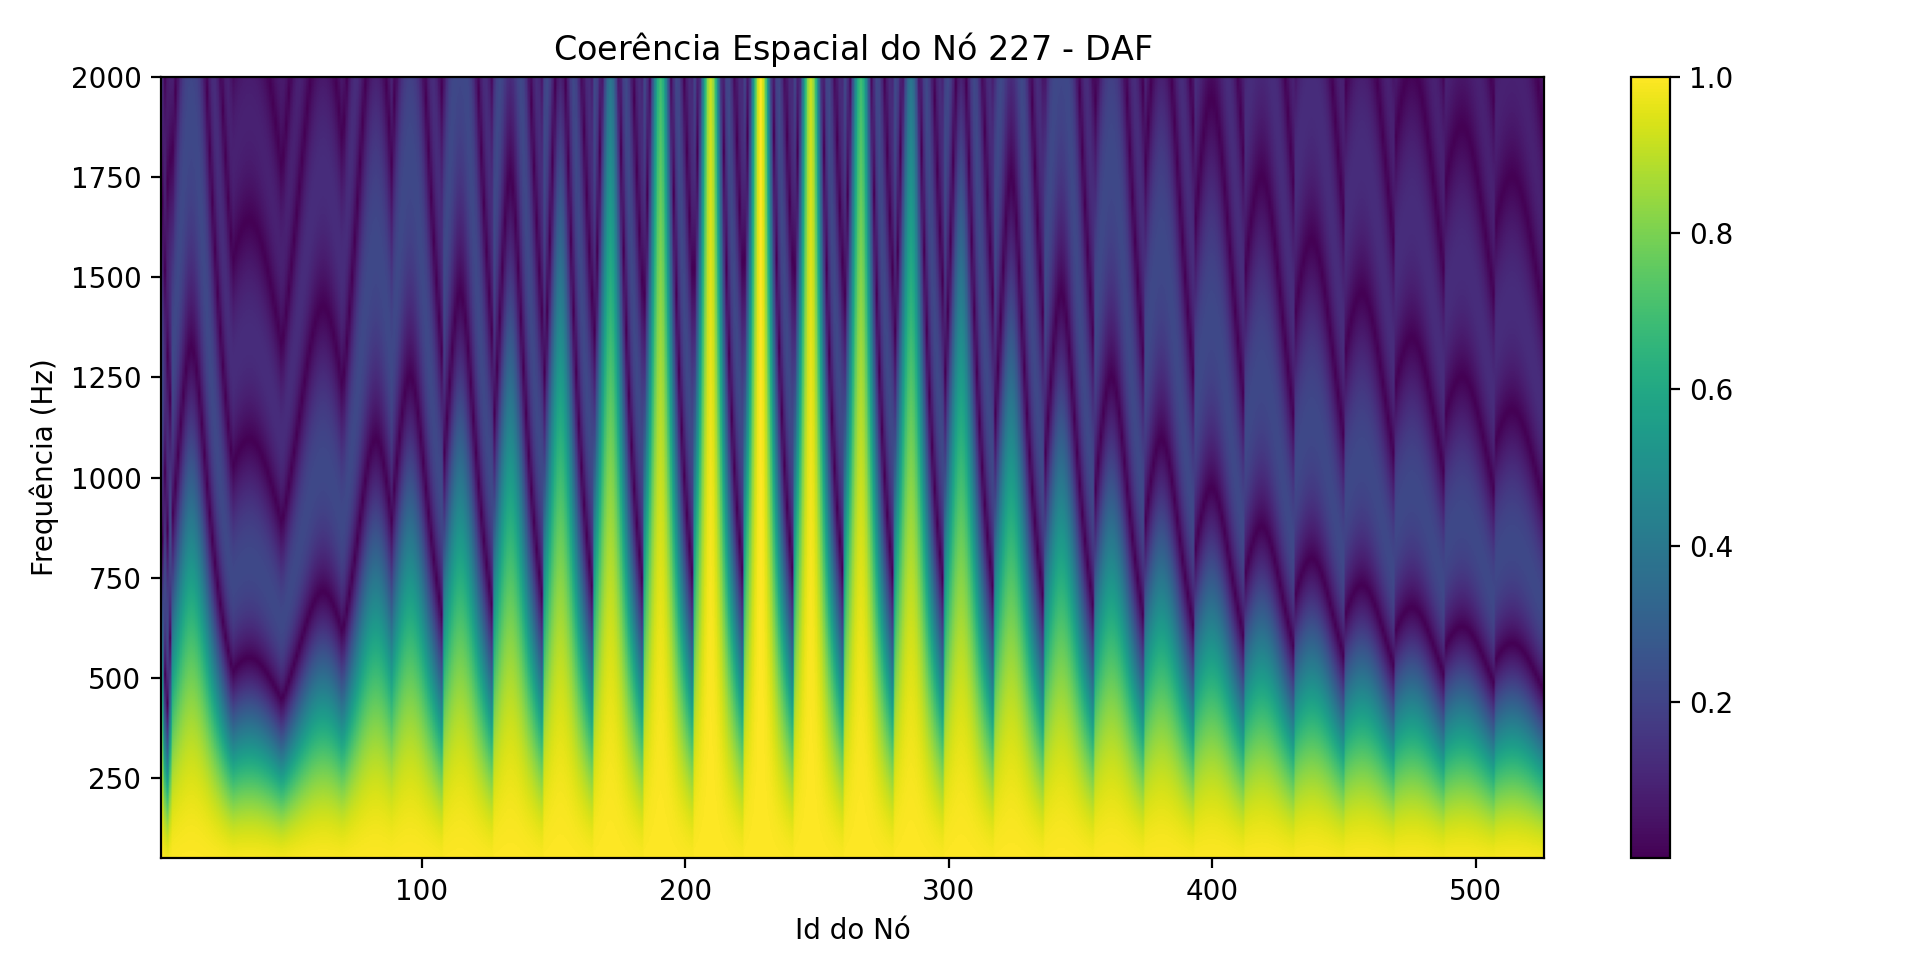
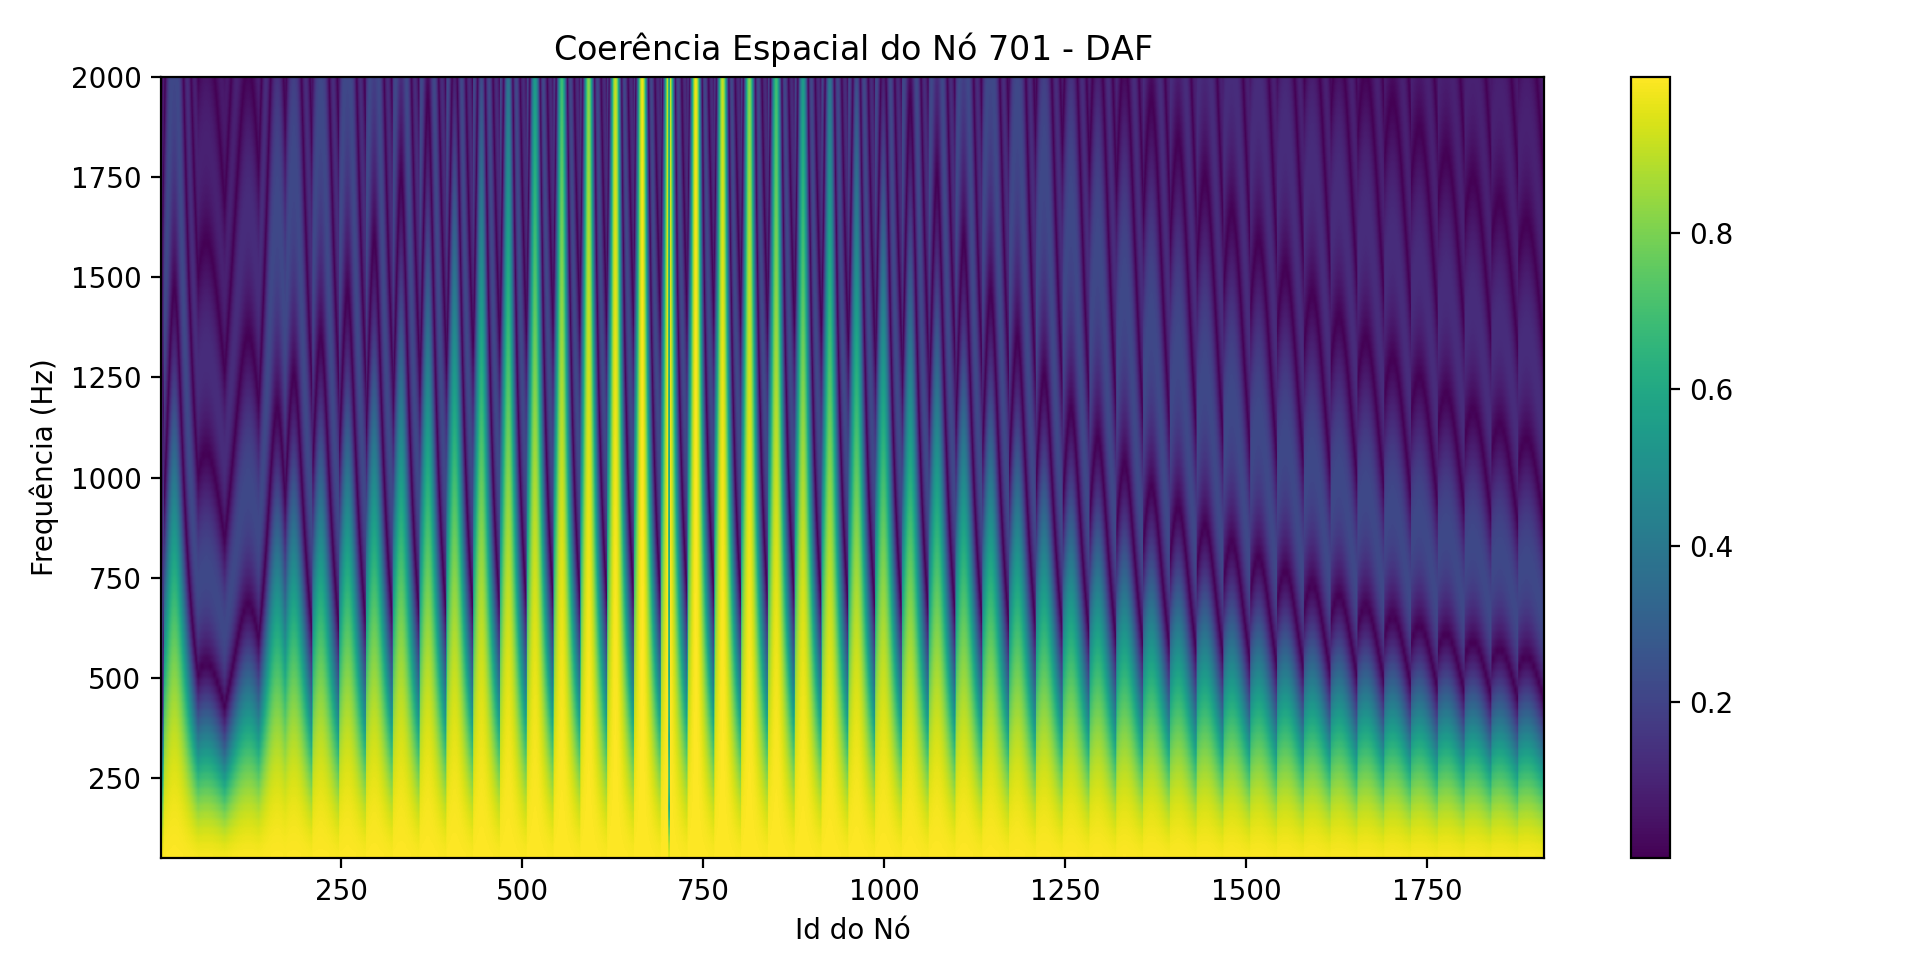
aeee porra

diff --git a/trabs/MAIN.py b/trabs/MAIN.py
@@ -1,6 +1,6 @@
 # %%
 import numpy as np
-
+from tqdm import tqdm
 import matplotlib.pyplot as plt
 import SHELL4 as fems4
 import SOLVE as solv
@@ -30,9 +30,9 @@ if __name__ == "__main__":
     
     
     # Propriedades
-    E = 210e9
-    rho = 8000
-    v = 0.3
+    E = 200e9
+    rho = 7850
+    v = 0.33
     alpha_x = 0.11
     alpha_y = 0.7
     rho_air =  1.1845
@@ -49,7 +49,7 @@ if __name__ == "__main__":
     lx = 0.47 # Comprimento
     ly = 0.37 # Altura
 
-    tamanho_elemento = 0.005
+    tamanho_elemento = 0.01
     coord, connect, nodes_faceX1, nodes_faceX2, nodes_faceY1, nodes_faceY2, nodes_middle = msh.malha2D_QUAD4(lx,ly,tamanho_elemento)
     nnode = len(coord)
     nel = len(connect)
@@ -95,12 +95,12 @@ if __name__ == "__main__":
     print('Frequências Naturais:')
     print(natural_frequencies)
     # %%
-    freq = np.linspace(50,2000,300)
+    freq = np.linspace(50,2000,100)
     psd = pd.DataFrame(index=freq, dtype=float)
-    csd = pd.DataFrame(index=freq, dtype=complex)
+    csd = pd.DataFrame(index=freq, dtype=np.complex64)
     Vr = modal_shape[z_dofs,:]  # Modos normais
     wn = 2 * np.pi * natural_frequencies  # Frequências naturais (rad/s)
-    #glf = check_node[1]  # Grau de liberdade da força
+    #glf = check_node[0]  # Grau de liberdade da força
     w_array = 2 * np.pi * freq  # Frequências angulares
     k0_array = w_array/c0
 
@@ -110,27 +110,27 @@ if __name__ == "__main__":
     ksin = norm(np.stack((ksix,ksiy)),2,0)
     np.fill_diagonal(ksin,1)
     # %%
-    # Function to compute phi_pb for a specific frequency index kk
+    
     def compute_Gamma_DAF(kk,  k0,  ksin):
         Gamma = np.sin(k0 * ksin) / (k0 * ksin)
         return Gamma, kk
 
     # Preallocate arrays
-    Gamma_DAF = np.zeros((nnode, nnode, len(w_array)), dtype=complex)
+    Gamma_DAF = np.zeros((nnode, nnode, len(w_array)), dtype=np.complex64)
 
     # Parallel computation of phi_pb using joblib
     results_DAF = Parallel(n_jobs=-1)(delayed(compute_Gamma_DAF)(
         kk, k0, ksin) for kk, k0 in enumerate(k0_array))
 
     # Combine the results back into phi_pb
-    for Gamma, kk in results_DAF:
+    for Gamma, kk in tqdm(results_DAF):
         Gamma_DAF[:, :, kk] = Gamma
 
     #%%
-    for n_eta, eta in enumerate([0.5, 0.05, 0.005]):
+    for n_eta, eta in enumerate(tqdm([0.5, 0.05, 0.005])):
 
         # Inicializando as FRFs    
-        Hv = np.zeros((len(z_dofs), len(z_dofs), len(freq)), dtype=complex)
+        Hv = np.zeros((len(z_dofs), len(z_dofs), len(freq)), dtype=np.complex64)
         
         # Pré-calculando termos repetidos para otimização
         eta_wn2 = eta * wn**2  # Termo de amortecimento modal
@@ -139,7 +139,7 @@ if __name__ == "__main__":
         # Function to compute the FRF for a specific (glf, glr) pair
         def compute_FRF(glr, glf, w_array, wn2, eta_wn2, Vr, modes):
             # Initialize the result for this pair
-            Hv_glr_glf = np.zeros_like(w_array, dtype=complex)
+            Hv_glr_glf = np.zeros_like(w_array, dtype=np.complex64)
             
             # Calculate the denominator and FRF for each mode
             for k in range(modes):
@@ -151,17 +151,17 @@ if __name__ == "__main__":
             
             return Hv_glr_glf, glr, glf
         # Preallocate the array to store the final Hv
-        Hv = np.zeros((nnode, nnode, len(w_array)), dtype=complex)
+        Hv = np.zeros((nnode, nnode, len(w_array)), dtype=np.complex64)
 
         # Parallel computation of FRFs using joblib
         results = Parallel(n_jobs=-2)(delayed(compute_FRF)(
-            glr, glf, w_array, wn2, eta_wn2, Vr, modes) for glr in np.arange(nnode) for glf in np.arange(nnode))
+            glr, glf, w_array, wn2, eta_wn2, Vr, modes) for glr in np.arange(nnode) for glf in check_node)
 
         # Aggregate the results back into Hv
-        for Hv_glr_glf, glr, glf in results:
+        for Hv_glr_glf, glr, glf in tqdm(results):
             Hv[glr, glf, :] = Hv_glr_glf
         
-        for n_U0, U0 in enumerate([44.7, 89.4, 178.8]):
+        for n_U0, U0 in enumerate(tqdm([44.7, 89.4, 178.8])):
             Re_d = 8 * U0*d_/v_air
             tau_w = (0.0225 * rho_air * U0**2)/(Re_d**0.25)
             # Pré-computando constantes fora dos loops
@@ -173,7 +173,7 @@ if __name__ == "__main__":
             ksix = coord[:, None, 0] - coord[None, :, 0]  # Diferenças em x
             ksiy = coord[:, None, 1] - coord[None, :, 1]  # Diferenças em y
             Aij = (tamanho_elemento)**2  # Precomputando Aij fora do loop
-            Aij = 0.47*0.37  # Precomputando Aij fora do loop
+            Aij = 0.47*0.37/nnode  # Precomputando Aij fora do loop
             # Função paralelizada que será aplicada em cada frequência
             def compute_Gamma_TBL(kk, w, Uc, ksix, ksiy, alpha_x, alpha_y, Aij):
                 ksix_Uc = np.abs(w * ksix / Uc)
@@ -181,7 +181,7 @@ if __name__ == "__main__":
                 # Precomputando o termo Gamma
                 exp_x = np.exp(-alpha_x * ksix_Uc)  # Parte exponencial para ksix
                 exp_y = np.exp(-alpha_y * ksiy_Uc)  # Parte exponencial para ksiy
-                complex_exp = np.exp(1j * w * ksix / Uc)  # Parte exponencial complexa
+                complex_exp = np.exp(1j * w * ksix / Uc)  # Parte exponencial np.complex64a
 
                 Gamma = (1 + alpha_x * ksix_Uc) * exp_x * complex_exp * exp_y
                 return Gamma, kk
@@ -192,22 +192,22 @@ if __name__ == "__main__":
                 kk, w, Uc, ksix, ksiy, alpha_x, alpha_y, Aij) for kk, (w,  Uc) in enumerate(zip(w_array, Uc_array)))
 
             # Atualizando Gamma_w com os resultados paralelizados
-            Gamma_TBL = np.zeros((nnode,nnode,len(freq)), dtype=complex)   
-            for Gamma, kk in results_TBL:
+            Gamma_TBL = np.zeros((nnode,nnode,len(freq)), dtype=np.complex64)   
+            for Gamma, kk in tqdm(results_TBL):
                 Gamma_TBL[:,:,kk] = Gamma
 
             
 
              
-            Gvv_TBL = np.zeros_like(Gamma_DAF, dtype=complex)
-            Gvv_DAF = np.zeros_like(Gamma_DAF, dtype=complex)
-            Gpp_TBL = np.zeros_like(Gamma_DAF, dtype=complex)
-            Gpp_DAF = np.zeros_like(Gamma_DAF, dtype=complex)
+            Gvv_TBL = np.zeros_like(Gamma_DAF, dtype=np.complex64)
+            Gvv_DAF = np.zeros_like(Gamma_DAF, dtype=np.complex64)
+            Gpp_TBL = np.zeros_like(Gamma_DAF, dtype=np.complex64)
+            Gpp_DAF = np.zeros_like(Gamma_DAF, dtype=np.complex64)
 
             
-            for ii in range(len(freq)):
-                Gvv_TBL[:,:,ii] = np.conj(Hv[:,:,ii].T)@(phi_pp[ii]*Gamma_TBL[:,:,ii])@Hv[:,:,ii]*Aij**2
-                Gvv_DAF[:,:,ii] = np.conj(Hv[:,:,ii].T)@(phi_pp[ii]*Gamma_DAF[:,:,ii])@Hv[:,:,ii]*Aij**2
+            for ii in tqdm(range(len(freq))):
+                Gvv_TBL[:,:,ii] = np.conj(Hv[:,:,ii].T)@(phi_pp[ii]*Gamma_TBL[:,:,ii])@Hv[:,:,ii]*Aij
+                Gvv_DAF[:,:,ii] = np.conj(Hv[:,:,ii].T)@(phi_pp[ii]*Gamma_DAF[:,:,ii])@Hv[:,:,ii]*Aij
                 Gpp_TBL[:,:,ii] = phi_pp[ii]*Gamma_TBL[:,:,ii]
                 Gpp_DAF[:,:,ii] = phi_pp[ii]*Gamma_DAF[:,:,ii]
                 
@@ -215,8 +215,8 @@ if __name__ == "__main__":
 
             
             psd[f'psd_{n_eta}_{n_U0}'] = phi_pp
-            csd[f'TBL_{n_eta}_{n_U0}'] = Gvv_TBL[check_node[1], check_node[1],:]
-            csd[f'DAF_{n_eta}_{n_U0}'] = Gvv_DAF[check_node[1], check_node[1],:]
+            csd[f'TBL_{n_eta}_{n_U0}'] = Gvv_TBL[check_node[0], check_node[0],:]
+            csd[f'DAF_{n_eta}_{n_U0}'] = Gvv_DAF[check_node[0], check_node[0],:]
 
     # %% 
     eta = [0.5, 0.05, 0.005]
@@ -242,7 +242,7 @@ if __name__ == "__main__":
     # %%
 
     plt.figure(figsize=(16,9), dpi=200, layout='tight')
-    plt.title(rf"Densidade Espectral Crusada - Nó ${check_node[1]}$ - $\eta={eta[1]}$")
+    plt.title(rf"Densidade Espectral Crusada - Nó ${check_node[0]}$ - $\eta={eta[1]}$")
     plt.plot(10*np.log10(np.abs(csd[f'TBL_{1}_{0}']/1e-9**2)), 'r')
     plt.plot(10*np.log10(np.abs(csd[f'TBL_{1}_{1}']/1e-9**2)), '--r')
     plt.plot(10*np.log10(np.abs(csd[f'TBL_{1}_{2}']/1e-9**2)), ':r')
@@ -261,7 +261,7 @@ if __name__ == "__main__":
     plt.show()
     # %% 
     plt.figure(figsize=(16,9), dpi=200, layout='tight')
-    plt.title(rf"Densidade Espectral Crusada - Nó ${check_node[1]}$ - $U_0={U0[1]} m/s$")
+    plt.title(rf"Densidade Espectral Crusada - Nó ${check_node[0]}$ - $U_0={U0[1]} m/s$")
     plt.plot(10*np.log10(np.abs(csd[f'TBL_{0}_{1}']/1e-9**2)), 'r')
     plt.plot(10*np.log10(np.abs(csd[f'TBL_{1}_{1}']/1e-9**2)), '--r')
     plt.plot(10*np.log10(np.abs(csd[f'TBL_{2}_{1}']/1e-9**2)), ':r')
@@ -285,49 +285,55 @@ if __name__ == "__main__":
 
     # %%
 
-    Gvvw_TBL = Gamma_TBL[check_node[1],:,:].T
-    Gvvw_DAF = Gamma_DAF[check_node[1],:,:].T
-    Gppw_TBL = Gpp_TBL[check_node[1],:,:].T
-    Gppw_DAF = Gpp_DAF[check_node[1],:,:].T
+    Gvvw_TBL = Gamma_TBL[check_node[0],:,:].T
+    Gvvw_DAF = Gamma_DAF[check_node[0],:,:].T
+    Gppw_TBL = Gpp_TBL[check_node[0],:,:].T
+    Gppw_DAF = Gpp_DAF[check_node[0],:,:].T
     plt.figure(figsize=(16,9), dpi=200, layout='tight')
     plt.imshow(np.abs(Gvvw_TBL), origin='lower', extent=(1, nnode+1, freq[0], freq[-1]), aspect='auto')
-    plt.title(rf"Coerência Espacial do Nó ${check_node[1]}$ - TBL")
+    plt.title(rf"Coerência Espacial do Nó ${check_node[0]}$ - TBL")
     plt.xlabel('Id do Nó')
     plt.ylabel('Frequência (Hz)')
     plt.colorbar()
     plt.show()
     plt.figure(figsize=(16,9), dpi=200, layout='tight')
     plt.imshow(np.abs(Gvvw_DAF), origin='lower', extent=(1, nnode+1, freq[0], freq[-1]), aspect='auto')
-    plt.title(rf"Coerência Espacial do Nó ${check_node[1]}$ - DAF")
+    plt.title(rf"Coerência Espacial do Nó ${check_node[0]}$ - DAF")
     plt.xlabel('Id do Nó')
     plt.ylabel('Frequência (Hz)')
     plt.colorbar()
     plt.show()
     plt.figure(figsize=(16,9), dpi=200, layout='tight')
     plt.imshow(np.abs(Gppw_TBL), origin='lower', extent=(1, nnode+1, freq[0], freq[-1]), aspect='auto')
-    plt.title(rf"Densidade Espectral Cruzada do Nó ${check_node[1]}$ - TBL")
+    plt.title(rf"Densidade Espectral Cruzada do Nó ${check_node[0]}$ - TBL")
     plt.xlabel('Id do Nó')
     plt.ylabel('Frequência (Hz)')
     plt.colorbar()
     plt.show()
     plt.figure(figsize=(16,9), dpi=200, layout='tight')
     plt.imshow(np.abs(Gppw_DAF), origin='lower', extent=(1, nnode+1, freq[0], freq[-1]), aspect='auto')
-    plt.title(rf"Densidade Espectral Cruzada do Nó ${check_node[1]}$ - DAF")
+    plt.title(rf"Densidade Espectral Cruzada do Nó ${check_node[0]}$ - DAF")
     plt.xlabel('Id do Nó')
     plt.ylabel('Frequência (Hz)')
     plt.colorbar()
     plt.show()
     # %%
     plt.figure(figsize=(16,9), dpi=200, layout='tight')
-    plt.title(rf"Densidade Espectral Crusada - Nó ${check_node[1]}$ - $\eta={eta[1]}$")
-    plt.plot(10*np.log10(np.abs((Aij/8)**2*csd[f'TBL_{1}_{0}']/1e-9**2)), 'r')
-    plt.plot(10*np.log10(np.abs((Aij/8)**2*csd[f'TBL_{1}_{1}']/1e-9**2)), '--r')
-    plt.plot(10*np.log10(np.abs((Aij/8)**2*csd[f'TBL_{1}_{2}']/1e-9**2)), ':r')
+    plt.title(rf"Densidade Espectral Crusada - Nó ${check_node[0]}$ - $\eta={eta[1]}$")
+    plt.plot(10*np.log10(np.abs(csd[f'TBL_{1}_{0}']/1e-9**2)), 'r')
+    plt.plot(10*np.log10(np.abs(csd[f'TBL_{1}_{1}']/1e-9**2)), '--r')
+    plt.plot(10*np.log10(np.abs(csd[f'TBL_{1}_{2}']/1e-9**2)), ':r')
     plt.plot(f_0, 10*np.log10(np.abs(Gvv_0/1e-9**2)), 'g')
     plt.plot(f_1, 10*np.log10(np.abs(Gvv_1/1e-9**2)), '--g')
     plt.plot(f_2, 10*np.log10(np.abs(Gvv_2/1e-9**2)), ':g')
     plt.xlabel('Frequência (Hz)')
     plt.ylabel('CSD (dB ref $1nm$) ')
+    plt.legend([rf"Nogueira - $\eta = {eta[1]}, U_0 = {U0[0]}$",
+                rf"Nogueira - $\eta = {eta[1]}, U_0 = {U0[1]}$",
+                rf"Nogueira - $\eta = {eta[1]}, U_0 = {U0[2]}$",
+                rf"Hambric - $\eta = {eta[1]}, U_0 = {U0[0]}$",
+                rf"Hambric - $\eta = {eta[1]}, U_0 = {U0[1]}$",
+                rf"Hambric - $\eta = {eta[1]}, U_0 = {U0[2]}$"])
     plt.grid(True)
     plt.show()
 
@@ -338,9 +344,9 @@ if __name__ == "__main__":
 
     # %%
     #plt.figure(figsize=(16,9), dpi=200, layout='tight')
-    #plt.title(rf"FRFs - do - Nó ${check_node[1]}$")
+    #plt.title(rf"FRFs - do - Nó ${check_node[0]}$")
     #plt.plot(freq,10*np.log10(np.abs(Hv.T)),'lightgray')
-    #plt.plot(freq,10*np.log10(np.abs(Hv[check_node[1],:].T)),'k')
+    #plt.plot(freq,10*np.log10(np.abs(Hv[check_node[0],:].T)),'k')
 #
     #plt.xlabel('Frequência (Hz)')
     #plt.ylabel('Mobilidade (dB)')
